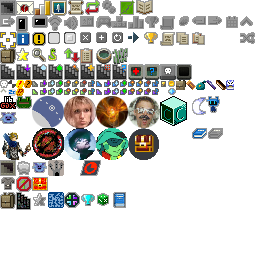
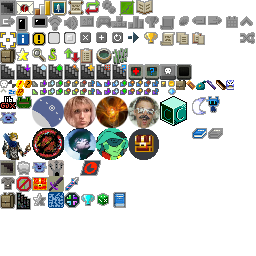
ReInc 0.7.1: finale

Changed region(s): [[0.1875, 0.6875, 0.3125, 0.75]]

diff --git a/core/src/main/java/com/shatteredpixel/shatteredpixeldungeon/ui/changelist/vReInc_Changes.java b/core/src/main/java/com/shatteredpixel/shatteredpixeldungeon/ui/changelist/vReInc_Changes.java
@@ -64,6 +64,7 @@ import com.shatteredpixel.shatteredpixeldungeon.sprites.HeroSprite;
 import com.shatteredpixel.shatteredpixeldungeon.sprites.ItemSprite;
 import com.shatteredpixel.shatteredpixeldungeon.sprites.ItemSpriteSheet;
 import com.shatteredpixel.shatteredpixeldungeon.sprites.MysteryMerchantSprite;
+import com.shatteredpixel.shatteredpixeldungeon.sprites.RatKingSprite;
 import com.shatteredpixel.shatteredpixeldungeon.sprites.RatSprite;
 import com.shatteredpixel.shatteredpixeldungeon.sprites.YogSprite;
 import com.shatteredpixel.shatteredpixeldungeon.ui.BuffIcon;
@@ -78,6 +79,7 @@ import java.util.ArrayList;
 
 public class vReInc_Changes {
     public static void addAllChanges( ArrayList<ChangeInfo> changeInfos ){
+        add_Coming_Soon(changeInfos);
         add_v0_7_0_Changes(changeInfos);
         add_v0_6_0_Changes(changeInfos);
         add_v0_5_0_Changes(changeInfos);
@@ -85,6 +87,47 @@ public class vReInc_Changes {
         add_v0_3_0_Changes(changeInfos);
         add_v0_2_0_Changes(changeInfos);
         add_v0_1_0_Changes(changeInfos);
+    }
+
+    public static void add_Coming_Soon( ArrayList<ChangeInfo> changeInfos ) {
+
+        ChangeInfo changes = new ChangeInfo("Coming Soon", true, "");
+        changes.hardlight(0xCCCCCC);
+        changeInfos.add(changes);
+
+        changes.addButton( new ChangeButton(Icons.get(Icons.DIFFICULTY), "Game Mode Expansion",
+                "One of purposes for the game mode menu revamp was to provide the groundwork for eventual game mode expansion, with providing a \"hard mode\" variant for each existing mode.\n\n" +
+                        "To play them, you will need to select a special conduct, that enables harder versions of the mode, and beat the game to permanently unlock it in the menu.\n\n" +
+                        "Increased Difficulty game mode is planned to come back in this, alongside with other ideas, like Extreme Gauntlet and expy of YAPD's Impossible mode."
+        ));
+
+        changes.addButton( new ChangeButton(Icons.get(Icons.WAND), "New Wands and Artifacts",
+                "Some of Legacy Summoning's wands still haven't been reimplemented yet, like Crystal Bullet, Conjuration and Stars. However, Evan has announced some of new wands in 4.X update cycle on Patreon, which will be adapted to use item types and will potentially be an engine to bring old wands back.\n\n" +
+                        "Evan also announced some new rings coming soon as well. I do plan to rework them into artifacts, depending on what ring comes up first, and maybe even reuse older sprites for artifacts, that weren't ported in 0.7.0. They will have different functionality, of course."
+        ));
+
+        changes.addButton( new ChangeButton(new RatKingSprite(), "Rat Kingdom",
+                "One major shakedown I want to provide is some kind of alternate region. In old Evan notes, the alts would basically replace the normal region, with no way to go into main route once entered.\n" +
+                        "Therefore, Rat Kingdom would replace Prison and be accessible by using Worn Key in Rat King's room instead of an actual exit.\n\n" +
+                        "Alongside with some hilarious rat mutants, this area would feature Rat King as actual region boss, probably with a significantly nerfed AI of Rat King Adventure's Rat King boss. On defeat, he would provide random _professions_ instead of normal subclass. And maybe actually balanced Rat King class."
+        ));
+
+        changes.addButton( new ChangeButton(Icons.get(Icons.PROF), "Professions",
+                "A major hurdle on reimplementing Legacy Summoning's talent system in any way is how overly complicated each tier 3 talent is, having many loosely connected effects and synergies with other talents, rivaling subclasses from base game in terms of gameplay changes.\n\n" +
+                        "I couldn't figure out, how to overcome this problem, until very recently, and the solution is... just turn those big talents into subclasses. But where they would fit?\n" +
+                        "The Rat King boss's reward mentioned before would be a choice between 3 random \"professions\", that do not depend on a hero and will be different every run. Each profession would embody one or several of Legacy Summoning talents, with actual smaller scale talents to boot."
+        ));
+
+        changes.addButton(new ChangeButton(new ItemSprite(ItemSpriteSheet.ARMOR_CLOTH), "Types for Equipment",
+                "The only types of equipment, that still need upgrades to be improved, are weapons and armor; therefore, implementing them as soon as possible will complete the item type system.\n\n" +
+                        "Weapons will likely be reduced in item count or be significantly reworked to provide the space for varied items. Also, they will be sometimes augmented by default, and not with just heavy and light augments!\n\n" +
+                        "Armor will get the same treatments, with existing Legacy types being reevaluated for modern meta. However, Evan announced variants of armor coming to Shattered soon, with new tradeoff system, so I am holding on to reworking armor before said armor update comes to not get my own ideas invalidated."
+        ));
+
+        changes.addButton(new ChangeButton(new ItemSprite(ItemSpriteSheet.WAND_MAGIC_MISSILE), "Wand Quests",
+                "Another wand-related idea I want to try is wand quests, that will become available after Tengu is defeated and Wandmaker's quest is done. You will be able to follow the Wandmaker's trail into a new level, themed after a wand that you didn't pick.\n\n" +
+                        "The reward for such quest would be a special edition of said wand, being able to switch its type without usage of type manager, but hefty cooldown. Alternatively, you could get said effect on any wand you desire, but with high resource cost."
+        ));
     }
 
     public static void add_v0_7_0_Changes( ArrayList<ChangeInfo> changeInfos ) {

diff --git a/core/src/main/java/com/shatteredpixel/shatteredpixeldungeon/ui/Icons.java b/core/src/main/java/com/shatteredpixel/shatteredpixeldungeon/ui/Icons.java
@@ -148,6 +148,9 @@ public enum Icons {
     NINE_CHAL,
     RANDOM_HERO,
 	RANDOM_CONDUCT,
+	PROF,
+	WAND,
+	DIFFICULTY,
 
 	//icons that appear in the about screen, variable spacing
 	LIBGDX,
@@ -485,6 +488,15 @@ public enum Icons {
                 break;
 			case RANDOM_CONDUCT:
 				icon.frame( icon.texture.uvRectBySize( 112, 192, 15, 16 ) );
+				break;
+			case PROF:
+				icon.frame( icon.texture.uvRectBySize( 48, 176, 16, 16 ) );
+				break;
+			case WAND:
+				icon.frame( icon.texture.uvRectBySize( 64, 176, 17, 16 ) );
+				break;
+			case DIFFICULTY:
+				icon.frame( icon.texture.uvRectBySize( 64, 192, 16, 16 ) );
 				break;
 
 			case LIBGDX:
